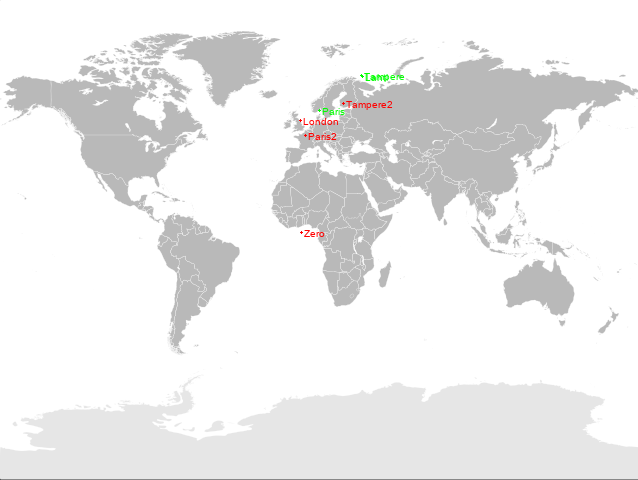
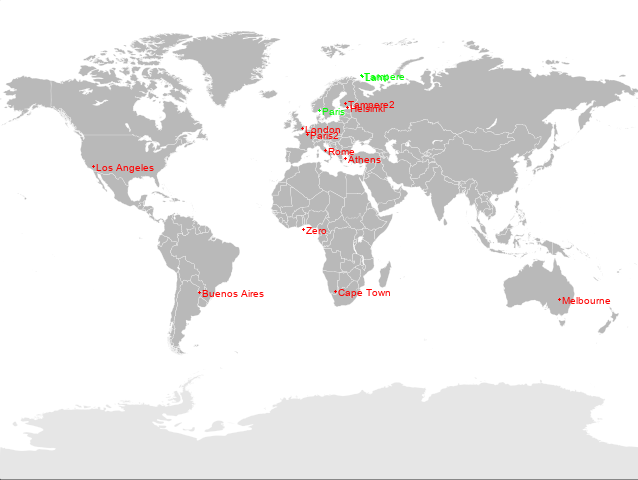
new algorithm for Miller projection.

diff --git a/tools/gencoords.py b/tools/gencoords.py
@@ -6,8 +6,8 @@ from PIL import ImageFont
 
 #CENTRAL_MERIDIAN_OFFSET = -79.0;
 #CENTRAL_LATITUDE_OFFSET = -294.0;
-X_OFFSET = -18.0;
-Y_OFFSET = -8.0;
+X_OFFSET = -16.0;
+Y_OFFSET = -17.0;
 W = 638;
 H = 480;
 PI = math.pi
@@ -23,7 +23,14 @@ def createCityList():
         ["Paris",       0, 0,                   240+79.0, 110+0.0],
         ["Tampere2",    61.49911, 23.787128],
         ["Tampere",     0,0,                    282+79.0, 75+0.0],
-        ["Lahti",      51.509865, -0.118092,    283+79.0, 76+0.0]
+        ["Lahti",       51.509865, -0.118092,    283+79.0, 76+0.0],
+        ["Rome",        41.902782, 12.496366],
+        ["Helsinki",    60.192059, 24.945831],
+        ["Cape Town",   -33.918861, 18.423300],
+        ["Los Angeles", 34.052235, -118.243683],
+        ["Buenos Aires",-34.603722, -58.381592],
+        ["Melbourne",   -37.840935, 144.946457],
+        ["Athens",      37.983810, 23.727539]
     ]
  
     return cityList
@@ -65,22 +72,18 @@ def millerProject(lat, lon):
     lat =  lat * PI / 180;
     
     x = lon;
-    y = 1.25 * math.log( math.tan( 0.25 * PI + 0.4 * lat ) );
+    y = 1.25 * math.log( math.tan( (0.25 * PI) + (0.4 * lat )) );
+    scale = W/PI/2
+    x *= scale;
+    y *= scale;
+    x += W/2;
+    y += W/2*0.7331989845
     
-    x = ( W / 2 ) + ( W / (2 * PI) ) * x;
-    #Northern hemisphere behaves differently from southern hemisphere
-    #most likely from floating point precision errors
-    #this helps compensate for the difference
-    if lon > 0.0:
-        y = H - (( H / 2 ) - ( H / ( 2 * 2.303412543 ) ) * y)
-    else:
-        y = H - (( H / 2 ) - ( H / ( 2 * 2.11896 ) ) * y)
-        
+    y = H-y
+    
     x += X_OFFSET
-        
-    y = H - y    
     y += Y_OFFSET
-    
+         
     return x,y
     
 
